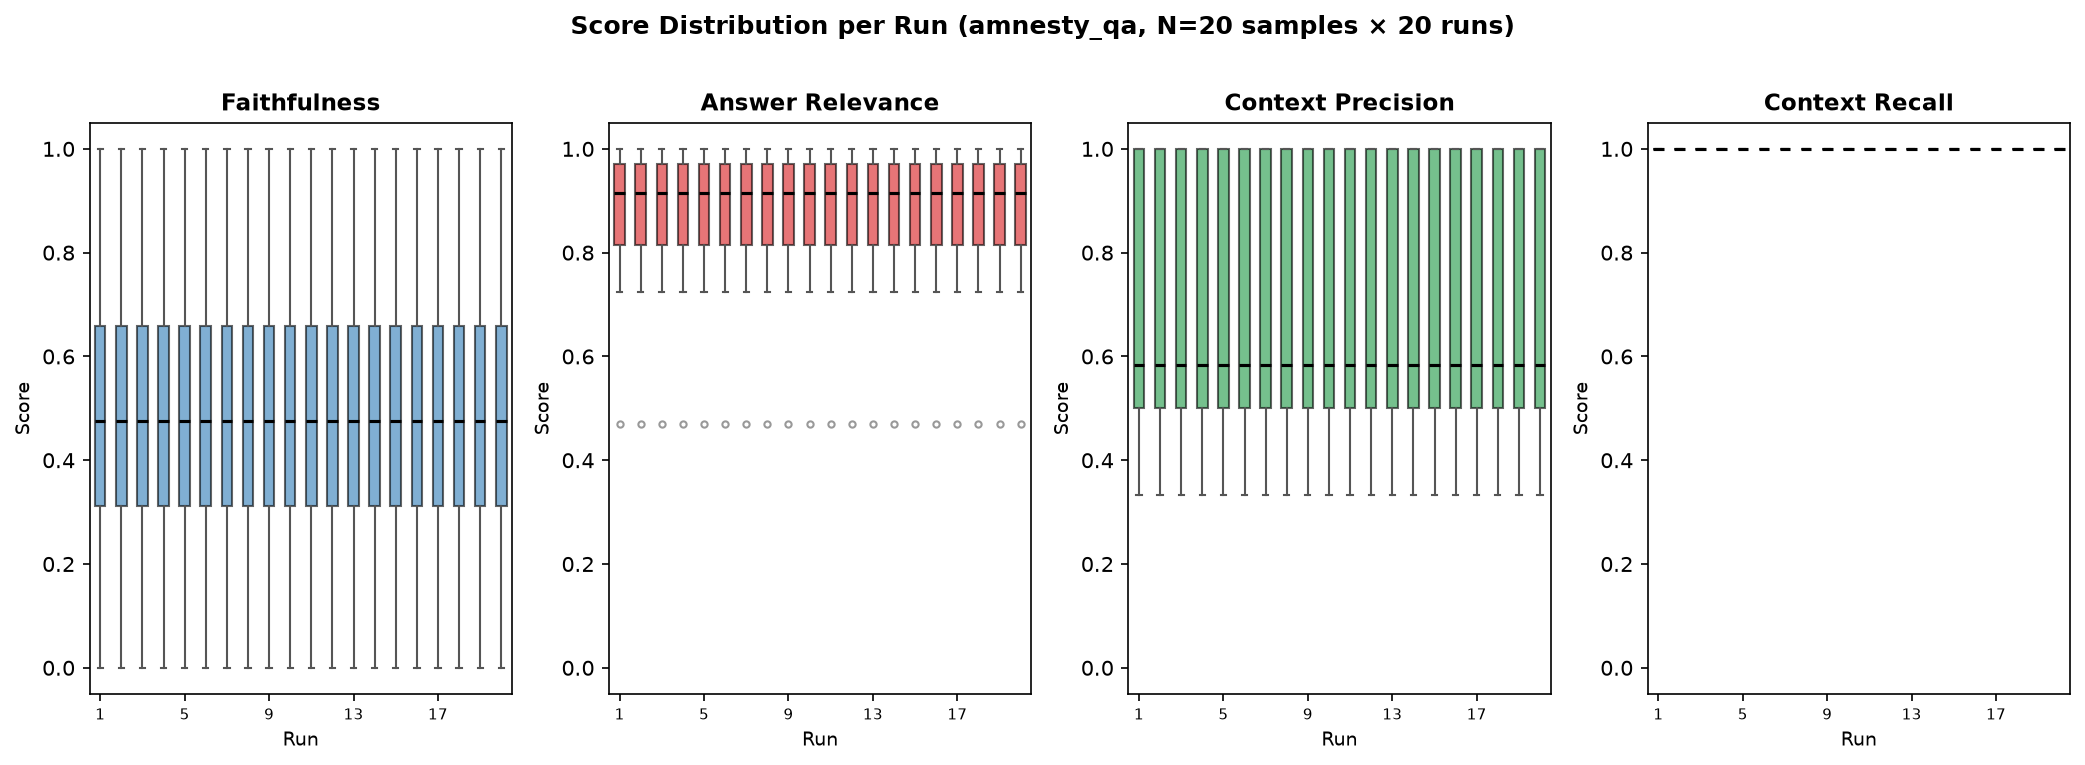
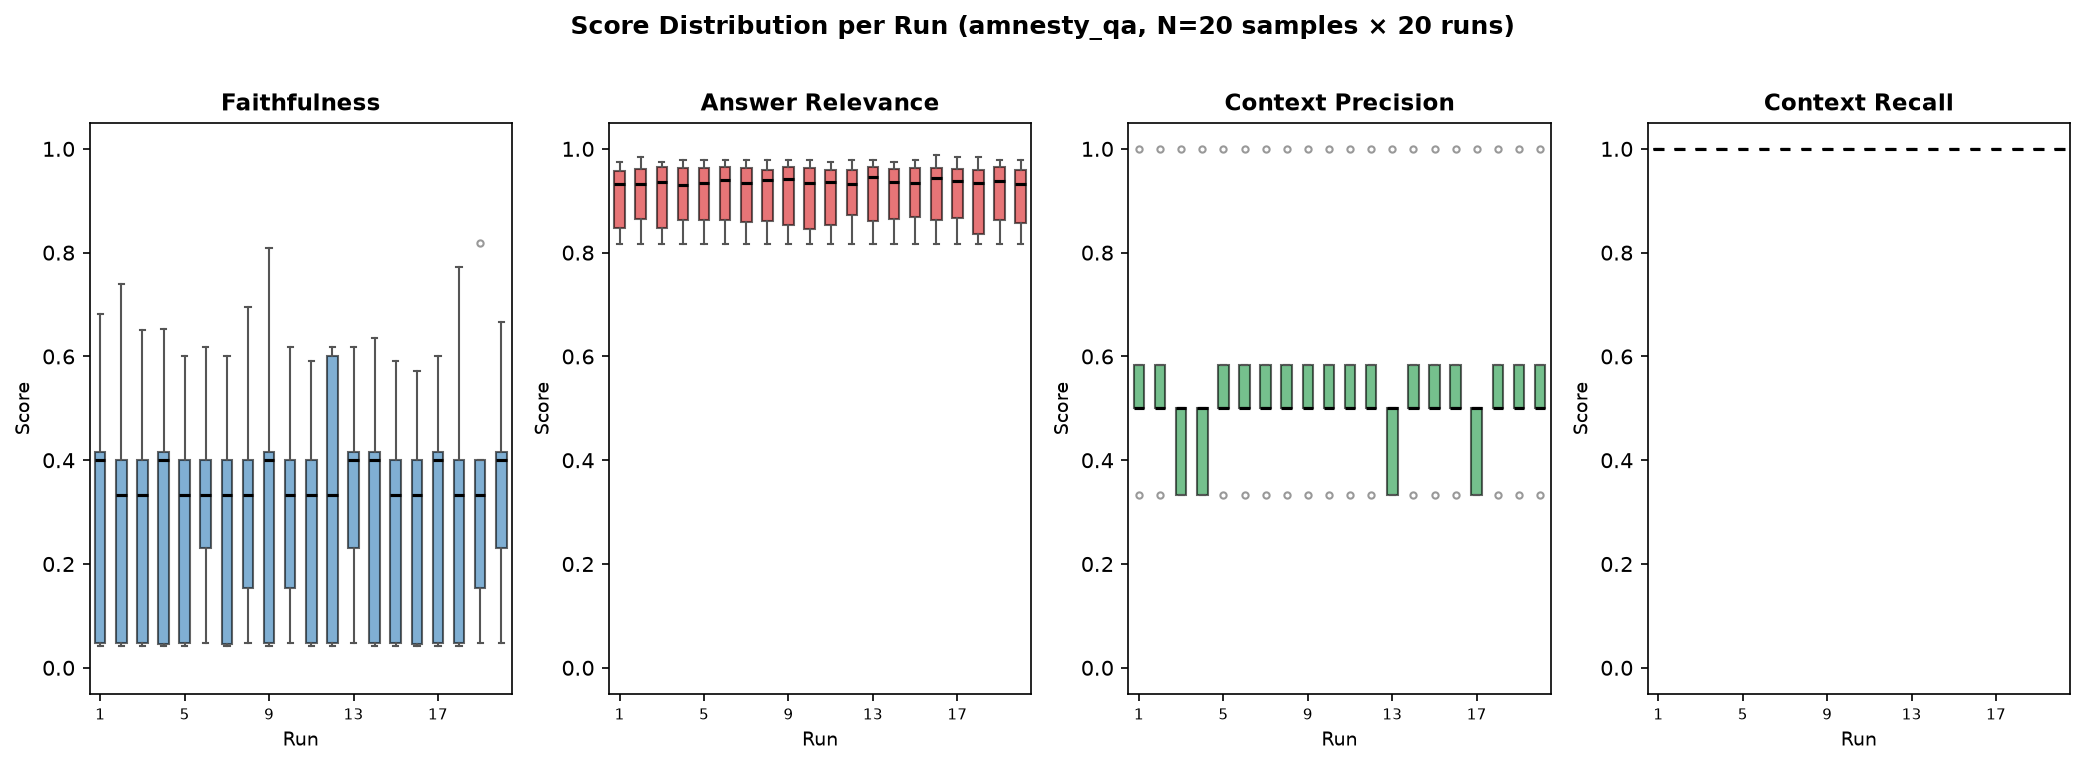
Big upsie

diff --git a/analysis/rq3/rq3_experiment.py b/analysis/rq3/rq3_experiment.py
@@ -380,7 +380,7 @@ async def main():
         log.error("Cannot reach Ollama at %s: %s", OLLAMA_HOST, exc)
         sys.exit(1)
 
-    samples = load_amnesty_qa()[:5]
+    samples = load_amnesty_qa()
 
     log.info(
         "Building RAGAS judge (model=%s, embeddings=all-MiniLM-L6-v2 local) ...",
